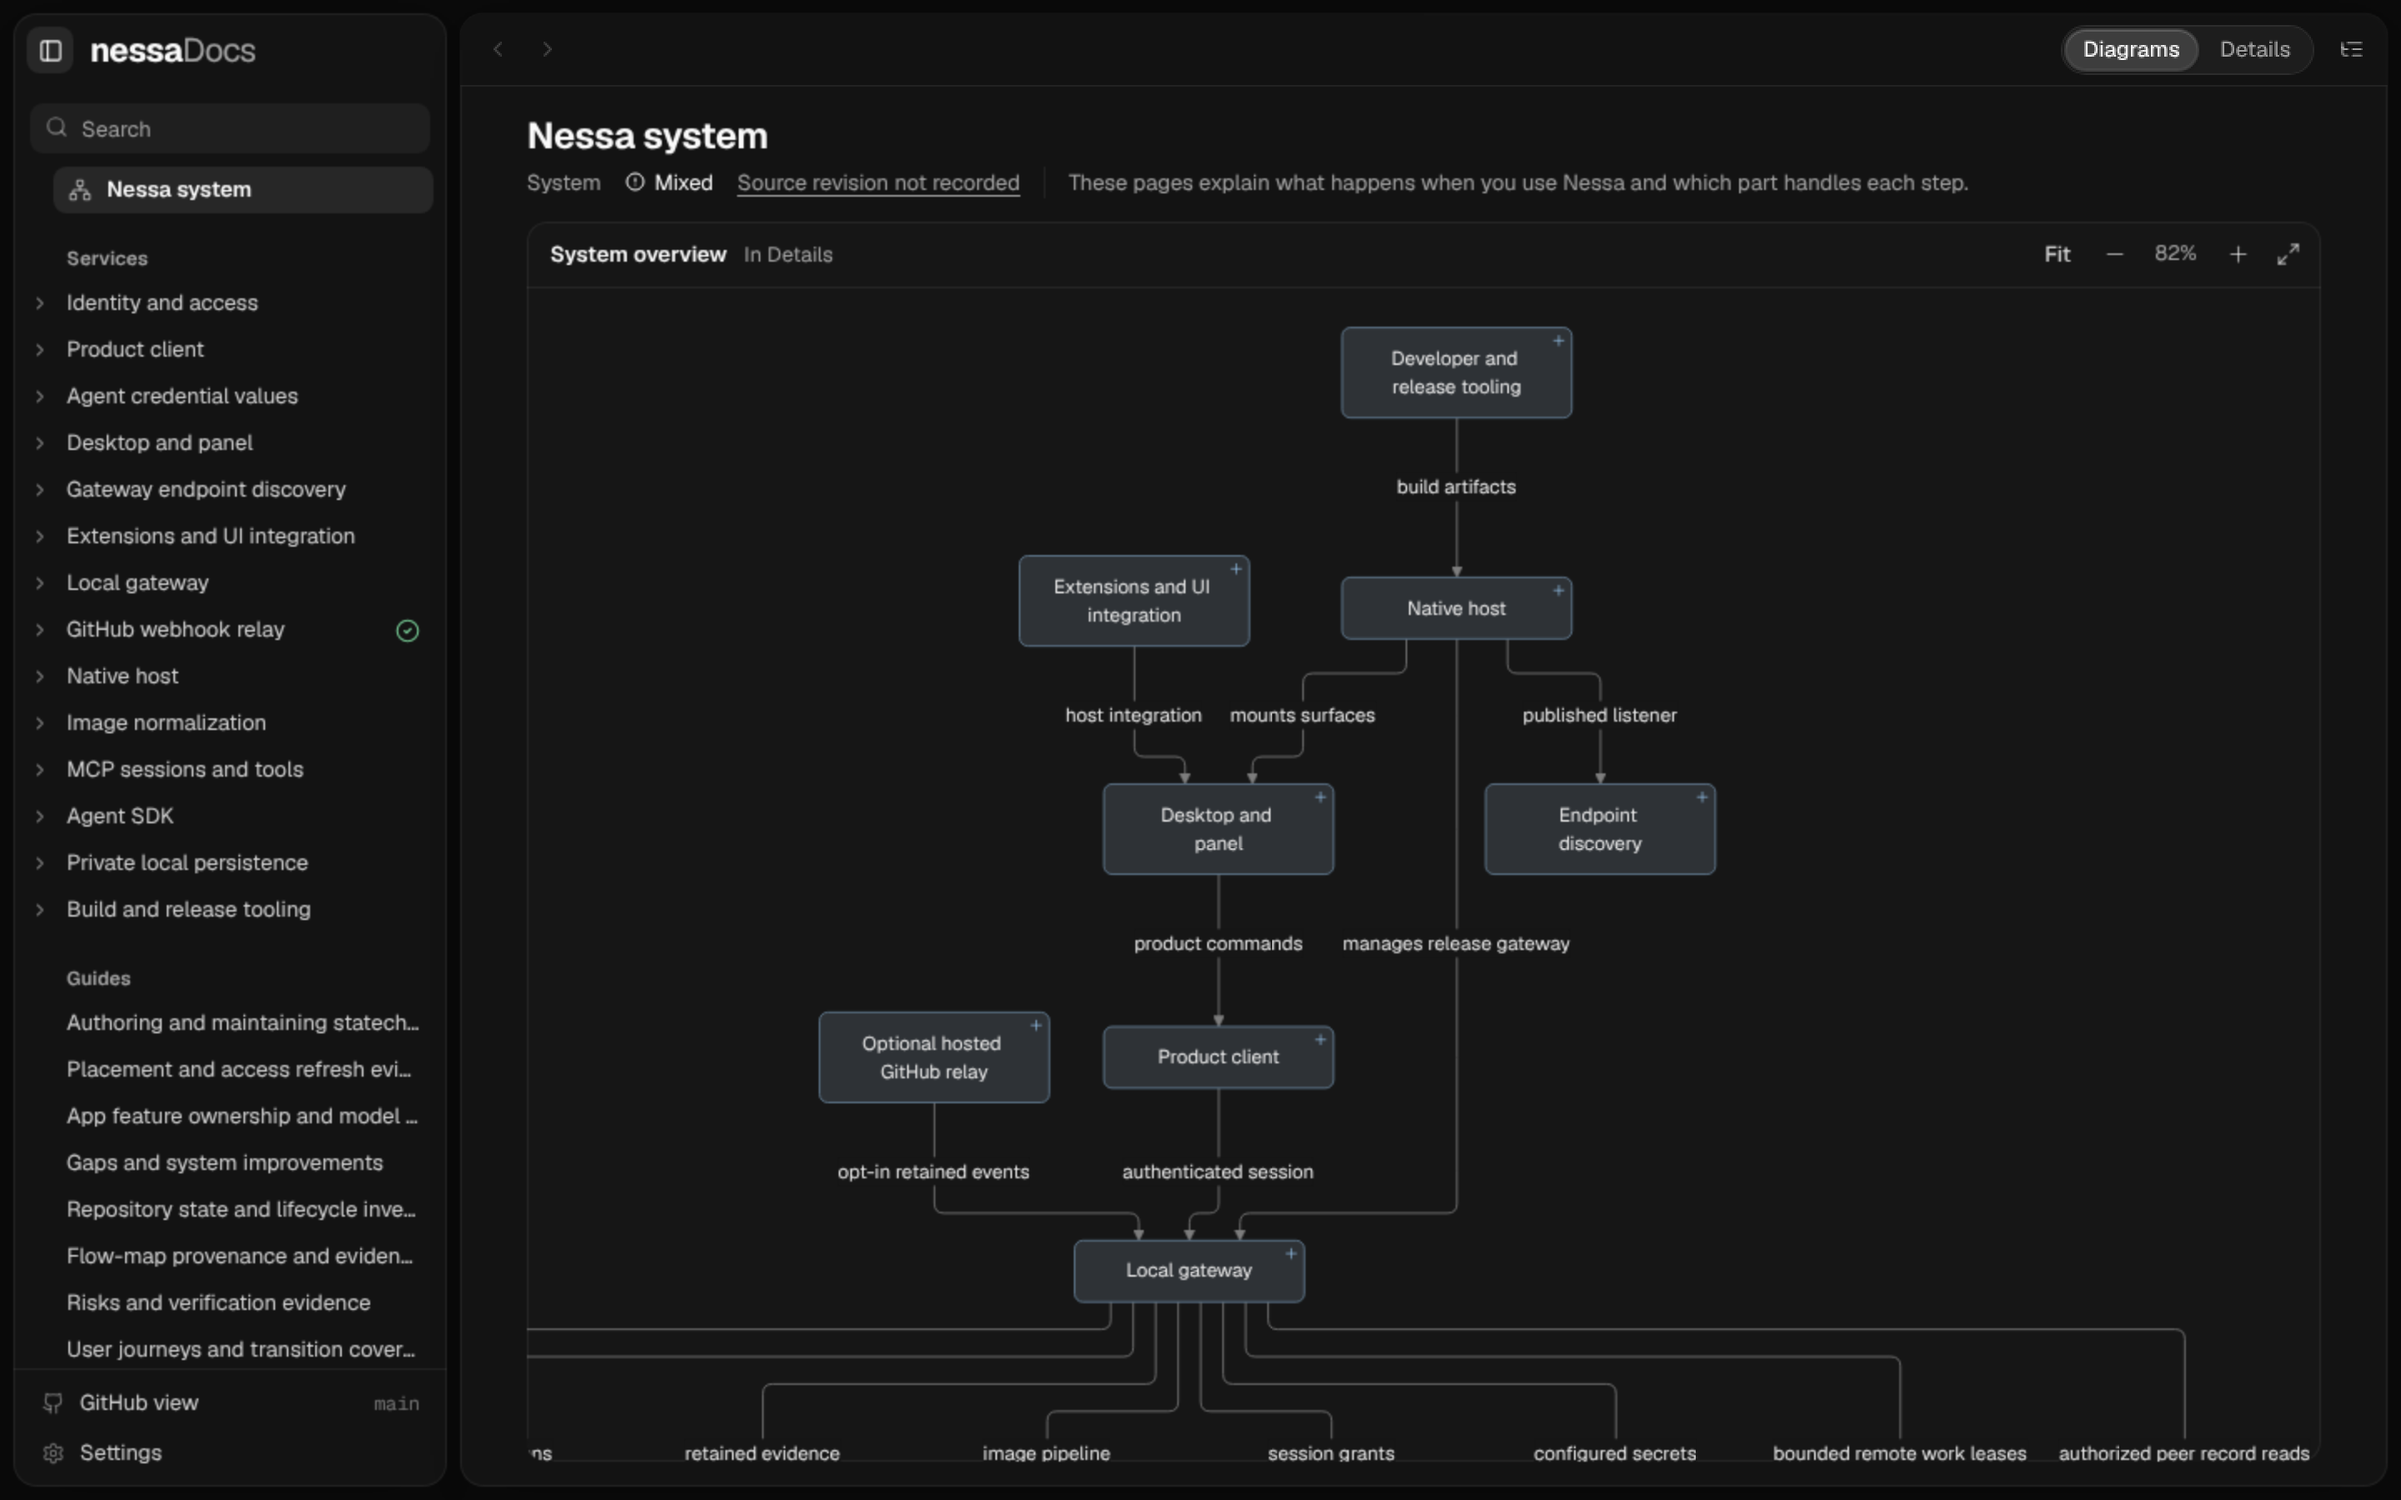
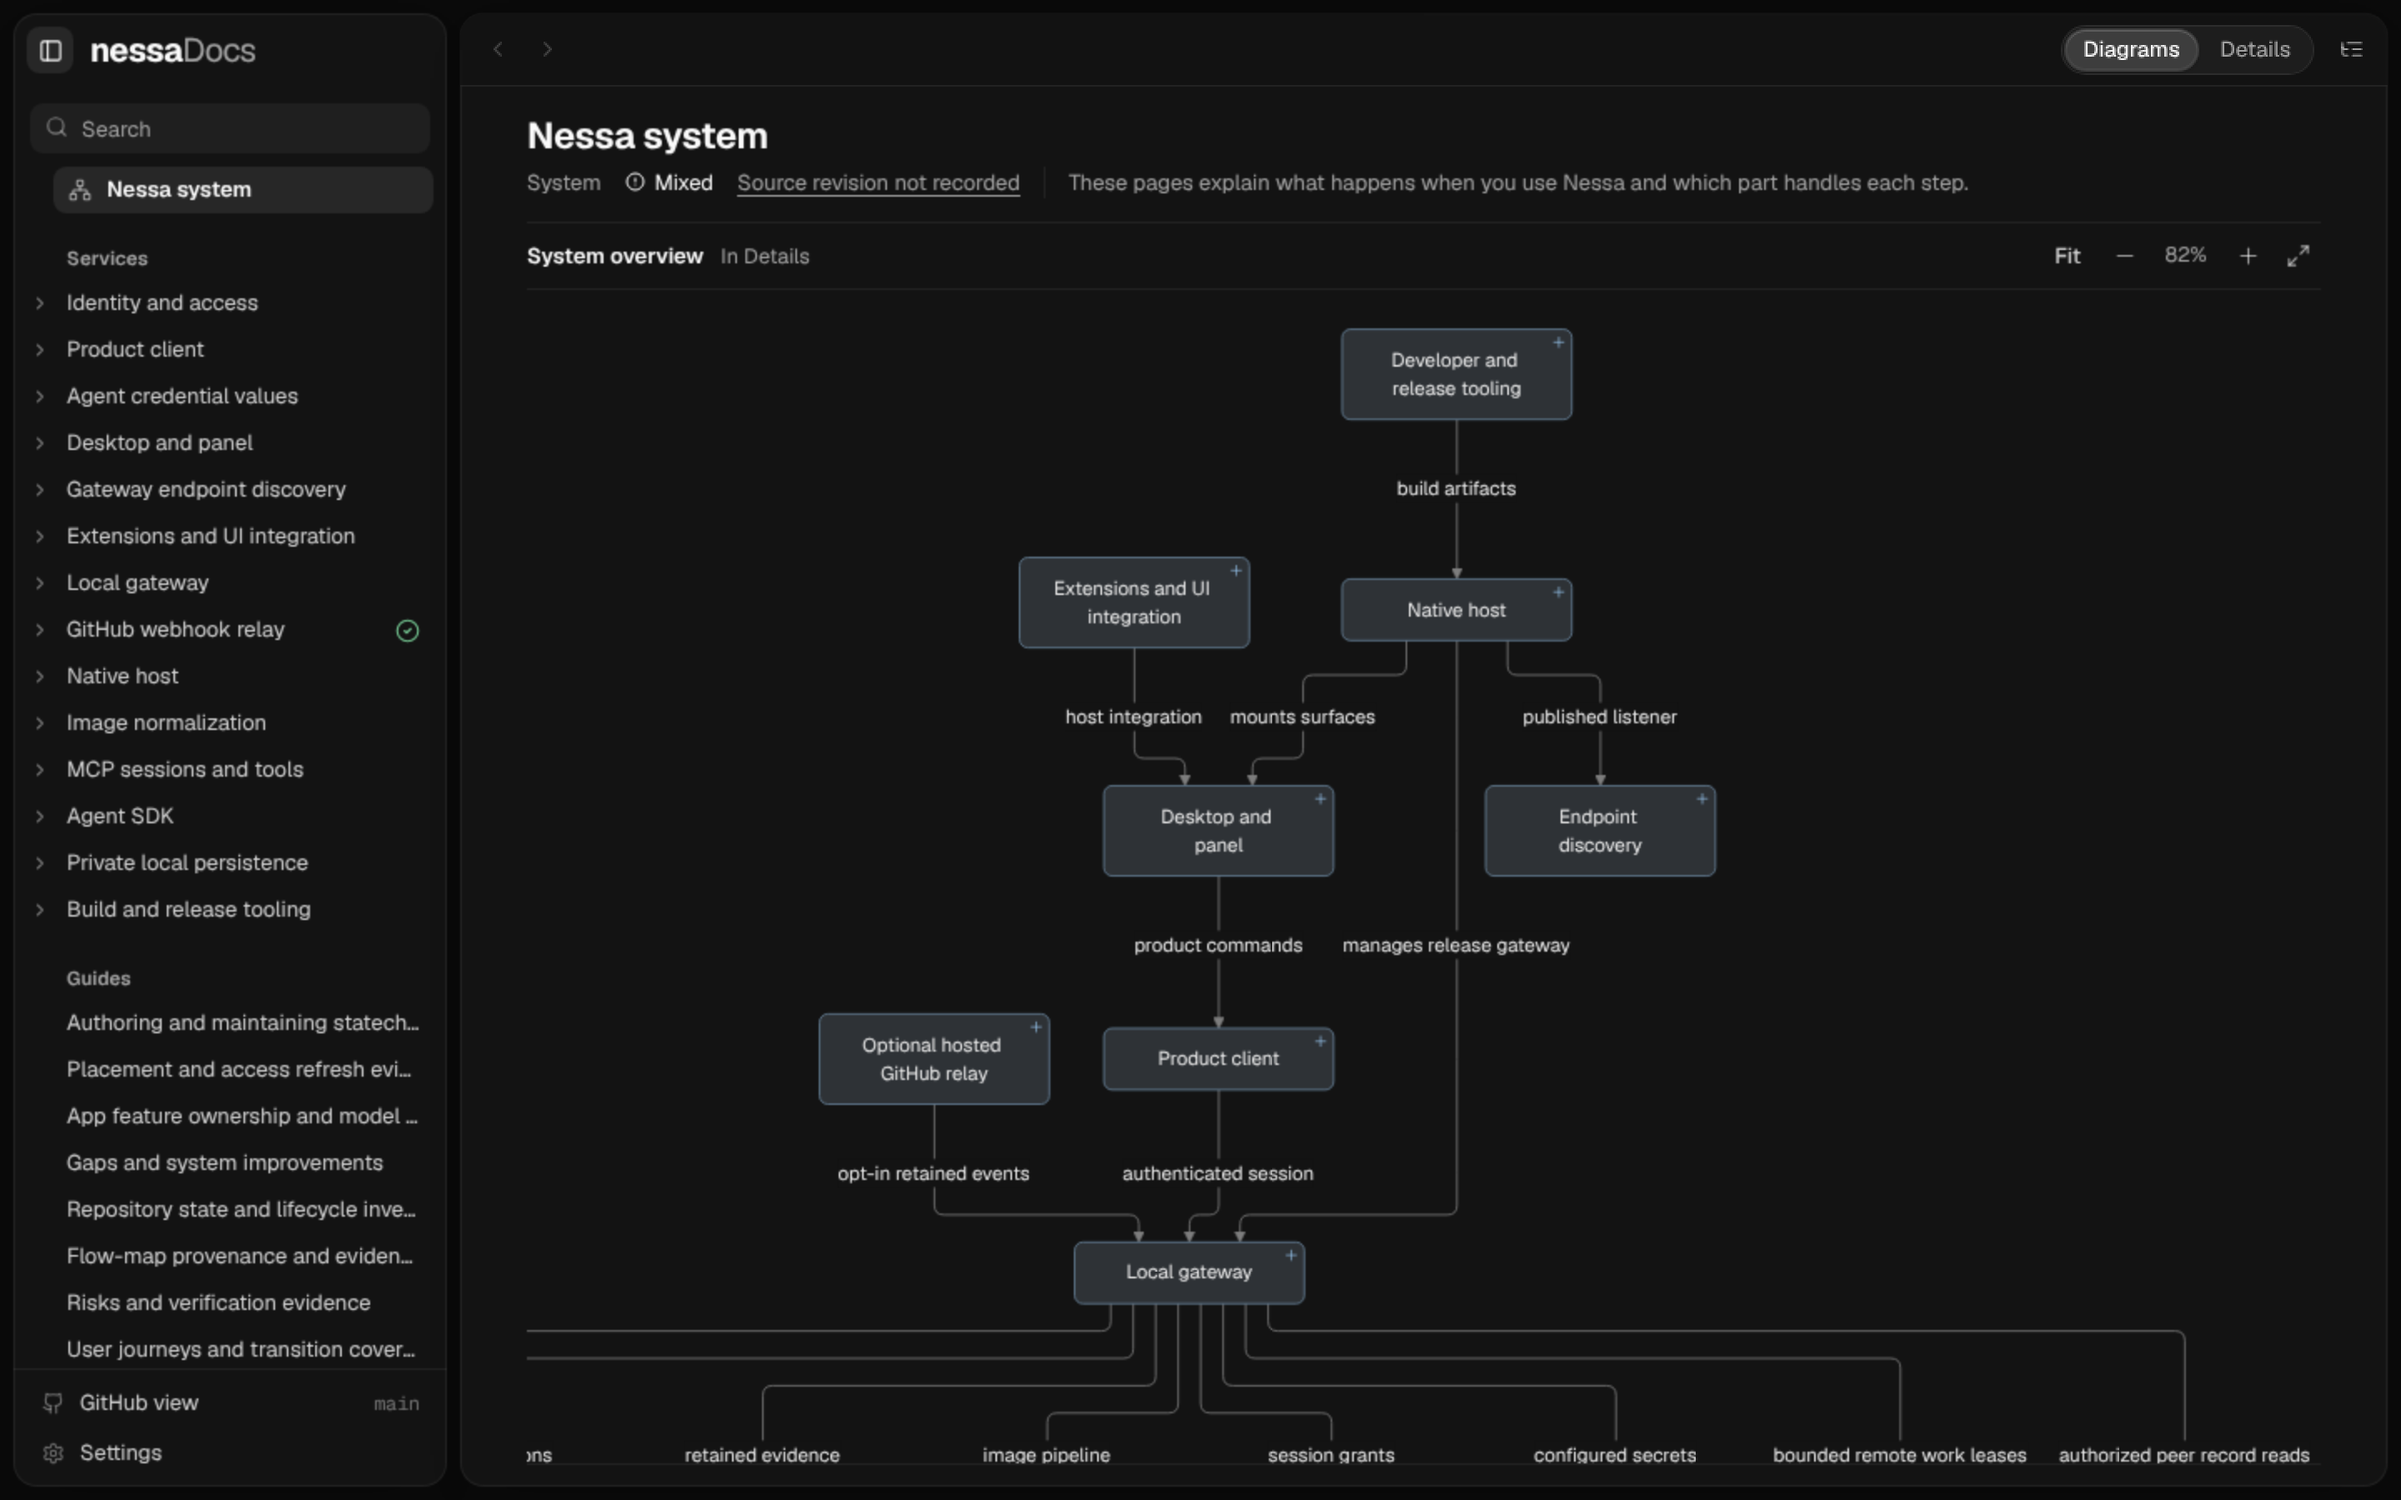
Flatten the reader's diagram and list cards: hairlines on the pane, no outlines
Charts sit on the pane itself (--stage and Mermaid's stage colour now equal
the pane) between hairlines; child lists lose their rim and keep hairlines
between rows, text aligned to the page. An expanded chart keeps its overlay
frame.

Claude-Session: https://claude.ai/code/session_01JcBpmVkonRTurvGJM41UPU

diff --git a/src/styles.css b/src/styles.css
@@ -28,7 +28,7 @@
   /* Solid, so Mermaid's edge labels (src/diagram.tsx PALETTE.stage) match exactly. */
   --app-bg: oklch(0.955 0 0);
   --pane: oklch(0.985 0 0);
-  --stage: #fbfbfb;
+  --stage: #fafafa; /* the pane itself: a chart sits flat on the page */
   --diagram-node: #ffffff;
   --link: oklch(0.5 0.13 252);
   --warn: oklch(0.55 0.13 65);
@@ -47,7 +47,7 @@
 .dark {
   --app-bg: oklch(0.145 0 0);
   --pane: oklch(0.185 0 0);
-  --stage: #161616;
+  --stage: #131313;
   --diagram-node: #232323;
   --link: oklch(0.8 0.075 245);
   --warn: oklch(0.82 0.12 78);
@@ -944,9 +944,8 @@ figure {
   margin: 0;
   padding: 0;
   list-style: none;
-  border-radius: var(--radius-panel);
-  box-shadow: inset 0 0 0 1px var(--rim);
-  overflow: hidden;
+  border-top: 1px solid var(--hairline);
+  border-bottom: 1px solid var(--hairline);
 }
 .child-list li + li {
   border-top: 1px solid var(--hairline);
@@ -958,7 +957,10 @@ figure {
     'title meta'
     'summary meta';
   column-gap: 16px;
-  padding: 9px 14px;
+  /* Text lines up with the page; the hover fill reaches a little past it. */
+  margin: 0 -8px;
+  padding: 10px 8px;
+  border-radius: var(--radius-row);
   color: var(--ink);
 }
 .child-row:hover {
@@ -1182,9 +1184,9 @@ figure {
 
 .diagram {
   margin: 24px 0 28px;
-  border-radius: 12px;
+  border-top: 1px solid var(--hairline);
+  border-bottom: 1px solid var(--hairline);
   background: var(--stage);
-  box-shadow: inset 0 0 0 1px var(--rim);
   overflow: hidden;
 }
 .diagram-stage {
@@ -1231,7 +1233,7 @@ figure {
   justify-content: space-between;
   gap: 12px;
   min-height: 40px;
-  padding: 4px 6px 4px 14px;
+  padding: 4px 0;
   border-bottom: 1px solid var(--hairline);
 }
 .diagram-caption {
@@ -1380,9 +1382,14 @@ figure {
   display: flex;
   flex-direction: column;
   margin: 0;
+  border: 0;
+  border-radius: 12px;
   box-shadow:
     inset 0 0 0 1px var(--rim),
     0 30px 80px -20px rgb(0 0 0 / 70%);
+}
+.diagram[data-expanded] .diagram-head {
+  padding: 4px 6px 4px 14px;
 }
 .diagram[data-expanded] .diagram-stage {
   flex: 1;

diff --git a/src/diagram.tsx b/src/diagram.tsx
@@ -35,7 +35,7 @@ function loadMermaid(): Promise<MermaidApi> {
 // `stage` matches .diagram-stage in styles.css so edge labels sit on it cleanly.
 const PALETTE: Record<Appearance, Record<string, string>> = {
   dark: {
-    stage: '#161616',
+    stage: '#131313',
     node: '#232323',
     nodeBorder: '#474747',
     text: '#ededed',
@@ -46,7 +46,7 @@ const PALETTE: Record<Appearance, Record<string, string>> = {
     note: '#262626',
   },
   light: {
-    stage: '#fbfbfb',
+    stage: '#fafafa',
     node: '#ffffff',
     nodeBorder: '#c7c7c7',
     text: '#1c1c1c',
